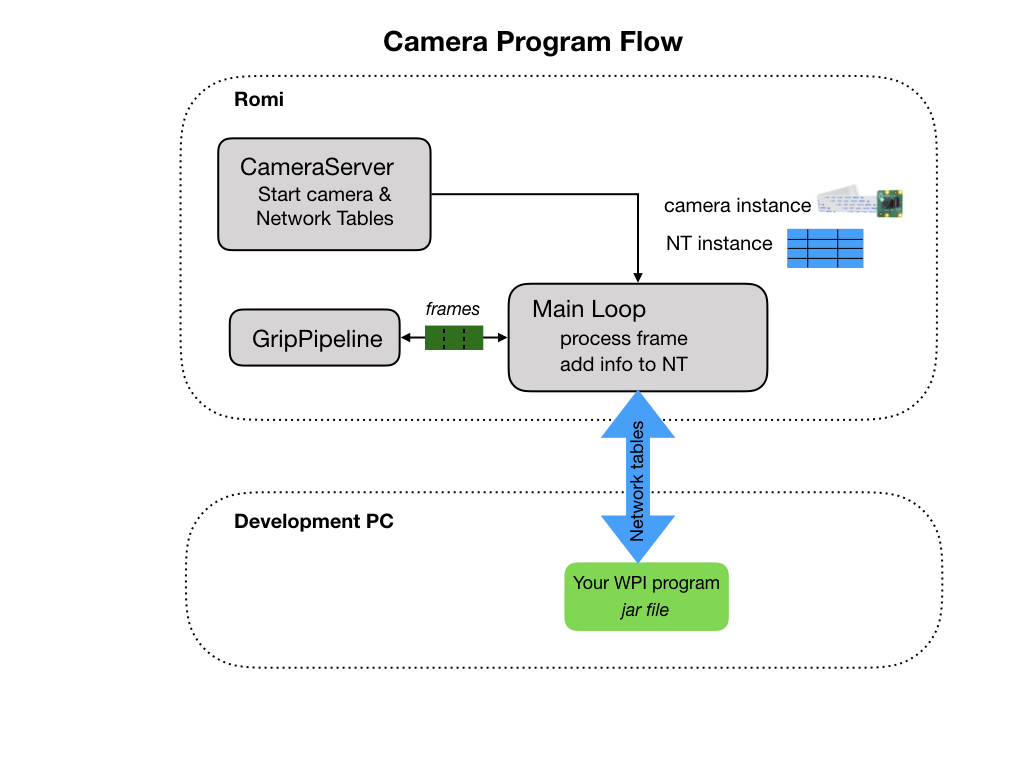
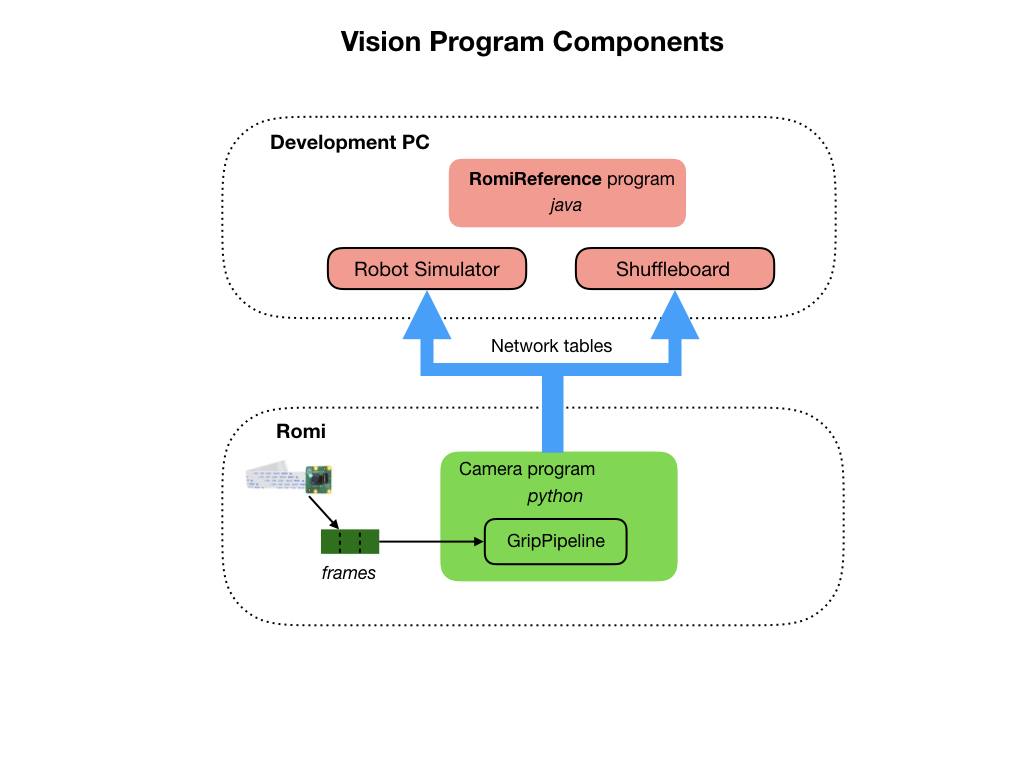
Documentation for advances lessons

diff --git a/Tools/romiVision.md b/Tools/romiVision.md
@@ -1,32 +1,29 @@
 # <a name="code"></a>Vision Programming
-In this section we'll use the Raspberry Pi camera to control the robot.  You'll need to upload a program to the Raspberry Pi on the Romi in order to run the camera.  The camera program will make use of the open source software called [OpenCV](https://opencv.org/) and can be written in Java, Python, or C++.  In this lesson we'll use the Python programming language to write our camera program.  Why Python? Because most of the programming examples that you'll find online will use Python so if you run into any problems with your program chances you'll find the solution in Python.
+In this section we'll make use of the Raspberry Pi camera that's installed on the Romi.  The camera will recognize a line drawn on the ground.  The line should be a distinctive color that doesn't blend in with the surrounding colors.  During this lesson we'll decide on a color and tune the camera in to lock onto that color.  Once we've "locked on" to the color we'll draw a center line on the camera image so as we can follow the line. The camera server will use [Network Tables](https://docs.wpilib.org/en/latest/docs/software/networktables/index.html) to send data to the [Simulator](https://docs.wpilib.org/en/latest/docs/software/wpilib-tools/robot-simulation/index.html) and [Shuffleboard](https://docs.wpilib.org/en/latest/docs/software/dashboards/shuffleboard/index.html).  
+
+The camera program uses the open source software called [OpenCV](https://opencv.org/) and can be written in Java, Python, or C++.  We're going to use the Python programming language since most of the OpenCV programming examples that you'll find online will use Python, so if you run into any problems with your program chances you'll find the solution in Python.  The following diagram shows the software components that we're going to use and how they're deployed between the Romi and your development PC. 
 
 ![Camera Program Flow](../images/Romi/Romi.024.jpeg)
 
+For this lesson we'll use the [BasicVision](https://github.com/mjwhite8119/romi-examples/tree/main/BasicVision) project.  Clone this project to VSCode.  The **BasicVision** project uses the WPI example project **RomiReference** to run and view the camera data in the Simulator and Shuffleboard.  There are no changes made to the **RomiReference** code.
 
+The python code for running the camera has been included in this project so as we have both of the software components in one place.  You'll upload the camera program to the Raspberry Pi on the Romi in a later step.  The following sections explain how the program works and how you deploy and run it.
 
-
-![Development Environment](../images/Romi/Romi.020.jpeg)
-
-![Development Environment](../images/Romi/Romi.018.jpeg)
-
-![Development Environment](../images/Romi/Romi.021.jpeg)
-
-## Using GRIP to Create a Pipeline
-A convenient way to create a frame processing pipeline is to use the FRC tool called 
+## Using GRIP to Recognize the Line
+In the above diagram you can see the camera sending frames to a piece of code called **GripPipeline**.  This code is generated from the FRC tool called [GRIP](https://docs.wpilib.org/en/latest/docs/software/vision-processing/grip/index.html).  A major part of this lesson will be to learn the GRIP tool and create a pipeline to process images coming from the camera.
 
 1. On Mac start from Applications->GRIP
 2. Turn on the Romi
 3. Add Source -> IP Camera.  Put the URL of the camera stream.  wpilibpi.local:1181/stream.mjpg
 4. Follow [FRC GRIP documentation](https://docs.wpilib.org/en/latest/docs/software/vision-processing/grip/index.html) to create the filter.
-The last filter should be Find Contours.
+The last filter should be `Find Contours`.
 5. Generate the code Tools->Generate Code.  
 6. Select Python as the output language.
 7. Use `GripPipeline` as the class name.
-8. Put it into the main directory of you camera server project.
-9. The module name can be `grip`.
+8. Put it into the `Vision` directory of your project.
+9. Name the module `grip`.
 
-If you're generating the java pipeline version make sure the the "Implement WPILIB VisionPipeline" box is checked.  This will place the following code into the generated GRIP file:
+<!-- If you're generating the java pipeline version make sure the the "Implement WPILIB VisionPipeline" box is checked.  This will place the following code into the generated GRIP file: -->
 
     import edu.wpi.first.vision.VisionPipeline;
 
@@ -35,28 +32,34 @@ The class definition will look like this:
     public class GripPipeline implements VisionPipeline {
 
 ## Update your Camera Server Program
+You'll need to upload a program to the Raspberry Pi on the Romi in order to run the camera.
 
+Need slide of application upload...
 
+![View Vision output](../images/Romi/Romi.021.jpeg)
 
-
+![Set Network Tables](../images/Romi/Romi.020.jpeg)
 
 ### Display the Tracking View in Shuffleboard
 Shuffleboard uses the Network Tables to display the camera data so your java program must be running in order to see the live camera stream.
 
 ## Upload Python Program
-1. cd ~/Documents/romi-examples/python-multiCameraServer
-2. The python program has multiple files so you need to upload them all.  This is done with a zip file.  Run `python3 build` to build the zip file.
+1. cd ~/Documents/romi-examples/BasicVision/Vision
+2. The python program has multiple files so you need to upload them all.  This is done with a zip file.  Run `python3 build.py` to build the zip file.
 3. On the Romi WPILibPi.local webpage. Go to **Application**.
 4. Put Raspberry Pi file system into Writable mode.
 5. In the **File Upload** select the file wpilib.tar.gz file for upload.  Make sure that file extract is selected. Click the **Upload** button.
-6. Select "Uploaded Python file" in the dropdown.
-7. Select multiCameraServer.py for the file.  You only need to upload this if you change it, which shouldn't be very often. 
+<!-- 6. Select "Uploaded Python file" in the dropdown.
+7. Select multiCameraServer.py for the file.  You only need to upload this if you change it, which shouldn't be very often.  -->
+
+![Upload Camera Program](../images/Romi/Romi.019.jpeg)
 
 Issues:
+When you first turn the Romi on the Application seems to default to "Custom".  You have to switch it to "Uploaded Python File" and restart the application via the **Vision Status** tab.
 
 The runCamera file keeps getting overwritten when you upload a new multiCameraServer.py file.  So just upload the tar file and then `Terminate` the application on the **Vision Status** page, and then press the `Up` button.
 
-![Upload Camera Program](../images/Romi/Romi.019.jpeg)
+
 
 ## Upload Java Program
 1. cd ~/Documents/romi-examples/java-multiCameraServer
@@ -73,6 +76,8 @@ Run the your java program from VSCode. In the Simulator you will see the Network
 [OpenCV](https://opencv.org/)
 
 [GRIP documentation](https://docs.wpilib.org/en/latest/docs/software/vision-processing/grip/index.html)
+
+[Robotpy examples - github](https://github.com/robotpy/robotpy-cscore/tree/main/examples)
 
 <h3><span style="float:left">
 <a href="romiFirmware">Previous</a></span>

diff --git a/Tools/romiPID.md b/Tools/romiPID.md
@@ -1,18 +1,34 @@
 # <a name="code"></a>PID and Line Following
-In this section we'll learn about PID control and use it to get the Romi to follow a line marked on the floor.  First we'll code our own simple controller so as we can learn about the basics of PID.  Then we'll implement the PID controller supplied by WPILib.  Before completing this section you should read the [PID Control documentation](https://docs.wpilib.org/en/latest/docs/software/commandbased/pid-subsystems-commands.html) provided by First Robotics.
+In this lesson we'll learn about PID control and use it to get the Romi to follow a line marked on the floor.  This will make use of the [BasicVision](https://github.com/mjwhite8119/romi-examples/tree/main/BasicVision) code from the previous lesson to send data to our PID controller.  This program will be called [PIDLineFollow](https://github.com/mjwhite8119/romi-examples/tree/main/PIDLineFollow). First we'll code our own simple controller so as we can learn about the basics of PID.  Then we'll implement the PID controller supplied by WPILib.  Before completing this section you should read the [PID Control documentation](https://docs.wpilib.org/en/latest/docs/software/commandbased/pid-subsystems-commands.html) provided by First Robotics.
 
 Our PID command is going to look like the following diagram.  We'll set the **Proportional** part to be 0.015.  Why?  The center line is coming in from the camera and becomes our measurement source.  We need to keep the center line at x=75 so that's becomes the setpoint.  The output is the turn angle going to the left and right motors.  Every command must have a subsystem requirement and in this case it would be the drive train. 
 
-![PID Command](../images/Romi/Romi.025.jpeg)
+Here are the changes that we'll make to the basic **RomiReference** program.  There will be new subsystem class and two new commands.
+![PIDLineFollow](../images/Romi/Romi.027.jpeg)
+Before we add the `Vision` subsystem we'll need to make an update to the `Drivetrain` class.
 
-## Camera Code Update
-Before we can implement the line following command we'll need a line to follow.  This is sent to us by the Camera Server that will send center line back to use via the Network Tables.
+Update `Drivetrain` Add `steer()` and `stop()` methods.
+
+## Create the Vision Subsystem
+Add Vision subsystem code...
+
+Add `Vision` constants to `Constants` file.
+
+Update `RobotContainer` add `Vision` class.
 
 ## Home Made PID Controller
-As we have learned, the PID controller has three components.  However, we are only going to use the first one which is the **Proportional** part.  We'll put our controller in the `execute()` method of our command.
+As we have learned, the PID controller has three components.  However, we are only going to use the first one which is the **Proportional** part.  Create a new command called `PIDLineFollow`. We'll put our controller in the `execute()` method of our command.
+
+Add `Joystick` constants to `Constants` file. 
+
+Set Joystick and Shuffleboard to initiate the line follow commands.
 
 ## WPILib PID Controller
+![PID Command](../images/Romi/Romi.025.jpeg)
+Create a new command called `LineFollowPIDCommand`.
+In the RobotContainer class change the Drivetrain definition from `private final` to `public static final`.  Why...?
 Use the WPILib `PIDCommand` to control the motors to follow the line.
+
 
 ## References
 [FRC Documentation - PID Control](https://docs.wpilib.org/en/latest/docs/software/commandbased/pid-subsystems-commands.html)

diff --git a/Tools/romiServos.md b/Tools/romiServos.md
@@ -1,8 +1,12 @@
 # <a name="code"></a>Programming Servos
+In this lesson we'll create a program to control servos that are attached to the Romi.  The program called [BasicServo](https://github.com/mjwhite8119/romi-examples/tree/main/BasicServo)
+
+## How Servos Work
 Servos work using a Pulse Width Modulation (PWM) signal that is passed to the servo every 20 milliseconds.  The pulse width is between 1 and 2 m/s where 1 m/s moves the servo to the 0 degree position and 2 m/s moves it a full 180 degrees.  Values in between those two time values move it to degrees in between 0 and 180 degrees.  
 
-![Servo Configuration](../images/Romi/Romi.023.jpeg)
+![Servo Motor Control](../images/Romi/Romi.023.jpeg)
 
+## Servo Connection
 The following diagram shows how to connect the power and where to connect the servos to the Romi's GPIO pins. In order to supply enough power for the servos you will need to connect to the VSW pin on the Romi board.  For this you'll need a buck converter to drop the battery voltage down from ~7.5V to ~6V.  
 
 Connect the servos to EXT3 and EXT4 as shown in the diagram.  The ground wire (black or brown) goes towards the outside of the board. Then go to the **Romi** section of the Romi Web UI and ensure that the ports are set to PWM.
@@ -11,9 +15,12 @@ Connect the servos to EXT3 and EXT4 as shown in the diagram.  The ground wire (b
 
 The servos are controlled via buttons on the gamepad.  Your WPI based program runs on the laptop and launches the Robot Simulator tool.  The simulator communicates with the NodeJS application that runs on the Raspberry Pi. This application passes requests onto the microcontroller to control the GPIO ports that the servos are connected to.
 
+## Controlling the Servos
 ![Servo Control](../images/Romi/Romi.006.jpeg)
 
 The following sections explain the how to create the java classes that your WPI program needs to control the servos.
+
+![BasicServo](../images/Romi/Romi.028.jpeg)
 
 ## Create the RomiServo Subsystem
 This class will use the Servo base class provided by the WPI library.
@@ -48,6 +55,8 @@ This command will use a joystick to control the RomiServo subsystem.
 
     import frc.robot.subsystems.RomiServo;
     import edu.wpi.first.wpilibj.Joystick;
+
+Add joystick constants to the `Contants` file.
 
 As always, the subsystem is added as a command requirement.
 
@@ -94,6 +103,8 @@ Inside the **configureButtonBindings()** method create a default command for the
     m_servo.setDefaultCommand( new ServoCommand(m_servo, m_controller));
 
 
+## References
+[Servos and Feedback](https://learn.adafruit.com/analog-feedback-servos)
 
 <h3><span style="float:left">
 <a href="romiPID">Previous</a></span>

diff --git a/Tools/romiArm.md b/Tools/romiArm.md
@@ -1,4 +1,8 @@
 # <a name="code"></a>Romi Robot Arm
+In this lesson we'll be creating code to control the [Robot Arm kit for Romi](https://www.pololu.com/product/3550) from Pololu. This program will be called [BasicArm](https://github.com/mjwhite8119/romi-examples/tree/main/BasicArm) which will include the following updates to the **RomiReference** project.
+
+![BasicArm](../images/Romi/Romi.029.jpeg)
+
 Before reading this section please review the [SimpleArm documentation](https://github.com/bb-frc-workshops/romi-examples/tree/main/simpleArm) on the BB FRC Workshops site.
 
 ## Controlling the Robot Arm
@@ -6,6 +10,8 @@ This is how the software stack works together to operate the robot arm.
 ![Servo Control](../images/Romi/Romi.006.jpeg)
 
 A button is attached to each of the three arm components Lift, Tilt, and Gripper.  Every time a button is pressed the related arm component is moved.  This is done incrementally.  There are min and max limits to the range of motion of the arm.  The range of the servo is 0 to 180 degrees but that is too large a range for the arm.
+
+The `Constants` file needs to be updated to include `Joystick` and `Arm` values.
 
 ![Arm Motor Control](../images/Romi/Romi.005.jpeg)
 
@@ -39,7 +45,10 @@ Example...
 
 Now let's figure out what we're going to do with these. 
 
+## References
+[Robot Arm kit for Romi](https://www.pololu.com/product/3550)
 
+[Romi Arm example - github](https://github.com/Pearadox/Romi/tree/master/src/main/java/frc/robot)
 
 <h3><span style="float:left">
 <a href="romiCode7">Previous</a></span>

diff --git a/Tools/romiPathPlanning.md b/Tools/romiPathPlanning.md
@@ -3,7 +3,12 @@ Use Ramsete controller to follow a path.
 
 ## References
 [FRC Documentation - Path Planning](https://docs.wpilib.org/en/latest/docs/software/pathplanning/index.html)
+
 [FRC Documentation - Trajectory Following](https://docs.wpilib.org/en/latest/docs/software/advanced-controls/trajectories/index.html)
+
+[Ramsete Example Code - github](https://github.com/bb-frc-workshops/romi-examples/tree/main/romi-trajectory-ramsete)
+
+[Auto driving example - github](https://github.com/calcmogul/auton-driving-presentation)
 
 
 <h3><span style="float:left">

diff --git a/Tools/romi.md b/Tools/romi.md
@@ -19,6 +19,7 @@ The <i>Romi</i> is designed to be used as a teaching tool for programming teams 
 - [PID and Line Following](romiPID)
 - [Programming Servos](romiServos)
 - [Robot Arm](romiArm)
+- [Robot Arm and Vision](romiArmVision)
 - [Filters](romiFilters)
 - [Color Sensor](colorSensor)
 - [Micro Controller Firmware](romiFirmware)

diff --git a/Tools/romiExample.md b/Tools/romiExample.md
@@ -18,6 +18,11 @@ Here's the documentation for the [Robot Simulator](https://docs.wpilib.org/en/st
 
 Play around with the robot.
 
+
+## References
+[Romi WPILibPi - github](https://github.com/wpilibsuite/WPILibPi/releases)
+
+
 <h3><span style="float:left">
 <a href="romi">Previous</a></span>
 <span style="float:right">
